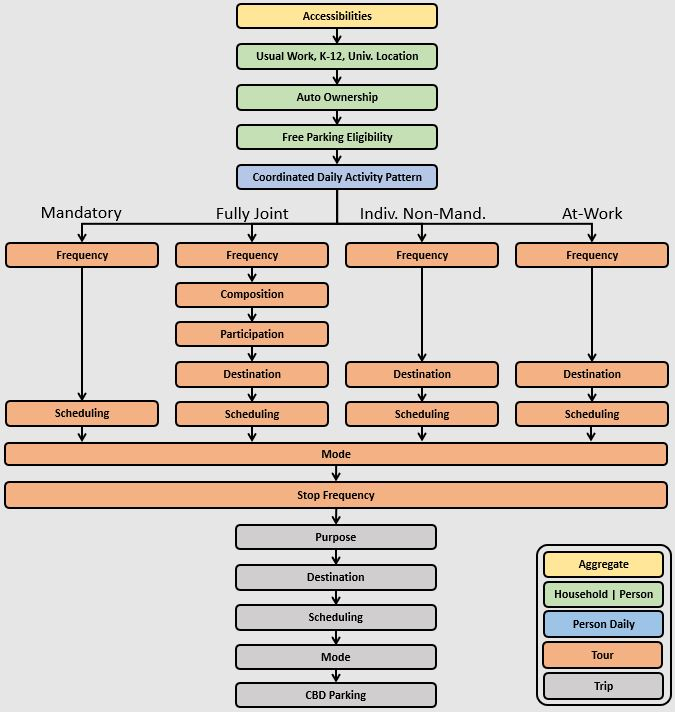
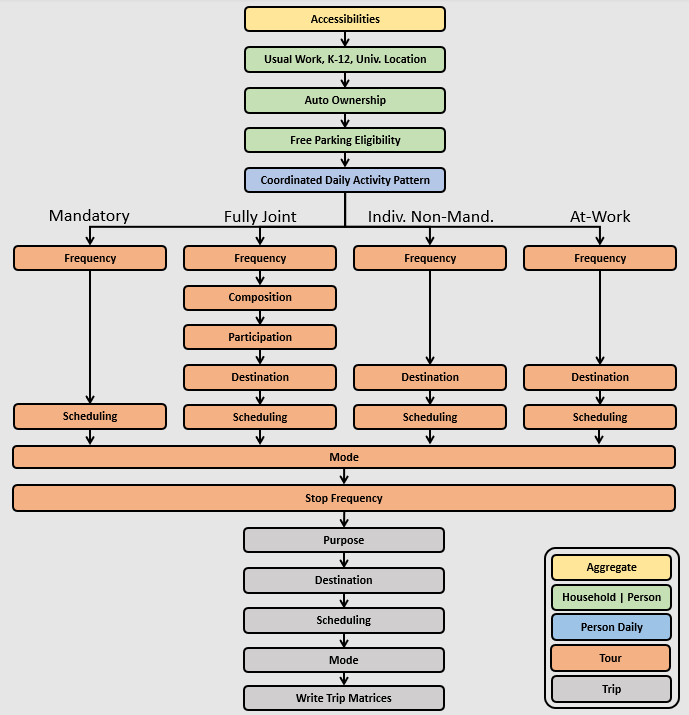
Some doc updates, including dropping parking location choice since it has yet to be implemented and adding a draft estimation functionality flow chart

Changed region(s): [[0.0, 0.0, 0.9956, 1.0]]

diff --git a/docs/models.rst b/docs/models.rst
@@ -764,30 +764,6 @@ Core Table: ``trips`` | Result Field: ``trip_mode`` | Skims Keys: ``origin, dest
 
 .. automodule:: activitysim.abm.models.trip_mode_choice
    :members:
-   
-.. _trip_cbd_parking:
-
-Trip CBD Parking
-----------------
-
-**NOT YET IMPLEMENTED**
-
-The parking location choice model is applied to tours with a destination in the urban area/city center
-with parking charges. The model incorporates three of the following interrelated sub-models to
-capture the current parking conditions in CBD, and allows for testing various policies:
-
-  * Parking cost model: determines the average cost of parking in each CBD zone.
-  * Person-free parking eligibility model: determines if each worker pays for parking in the CBD.
-  * Parking location choice model: determines for each tour the primary destination parking location zone. 
-  
-The nested logit structure consists of an upper level binary choice between parking inside versus outside 
-the modeled destination zone. At the lower level, the choice of parking zone is modeled for those who did 
-not park in the destination zone.   
-
-The main interface to the CBD parking model is the 
-XXXXX function.  This function is registered as an orca step in the example Pipeline.
-
-Core Table: ``trips`` | Result Field: ``XXXXX`` | Skims Keys: ``XXXXX``
 
 .. _write_trip_matrices:
 

diff --git a/docs/abmexample.rst b/docs/abmexample.rst
@@ -497,8 +497,6 @@ columns indicates the number of non-mandatory tours by purpose.  The current set
 |                                                |  - trip_mode_choice_coeffs.csv                                     |
 |                                                |  - trip_mode_choice.csv                                            |
 +------------------------------------------------+--------------------------------------------------------------------+
-|  :ref:`trip_cbd_parking`                       |  **NOT YET IMPLEMENTED**                                           |
-+------------------------------------------------+--------------------------------------------------------------------+
 |  :ref:`write_trip_matrices`                    |  - write_trip_matrices.yaml                                        |
 |                                                |  - write_trip_matrices_annotate_trips_preprocessor.csv             |
 +------------------------------------------------+--------------------------------------------------------------------+
